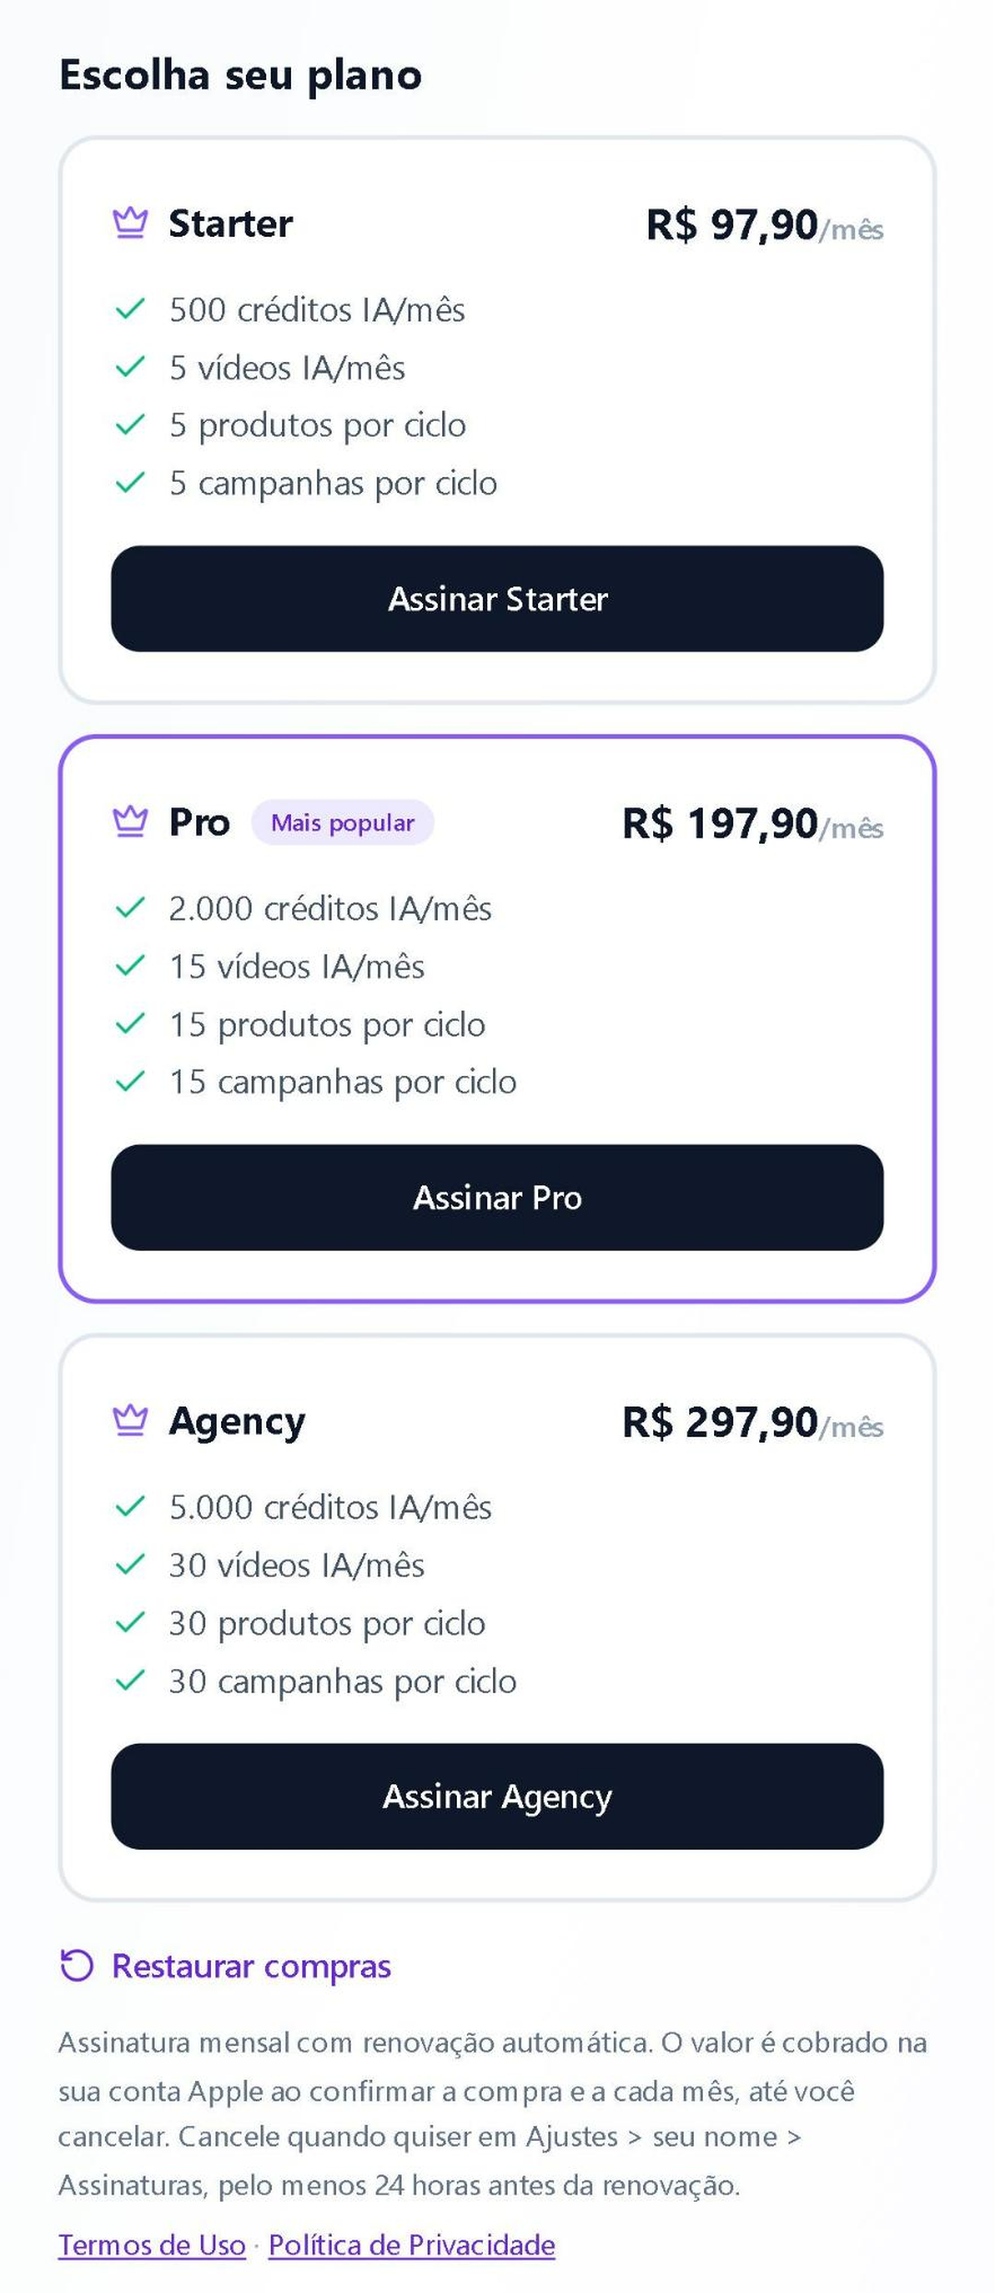
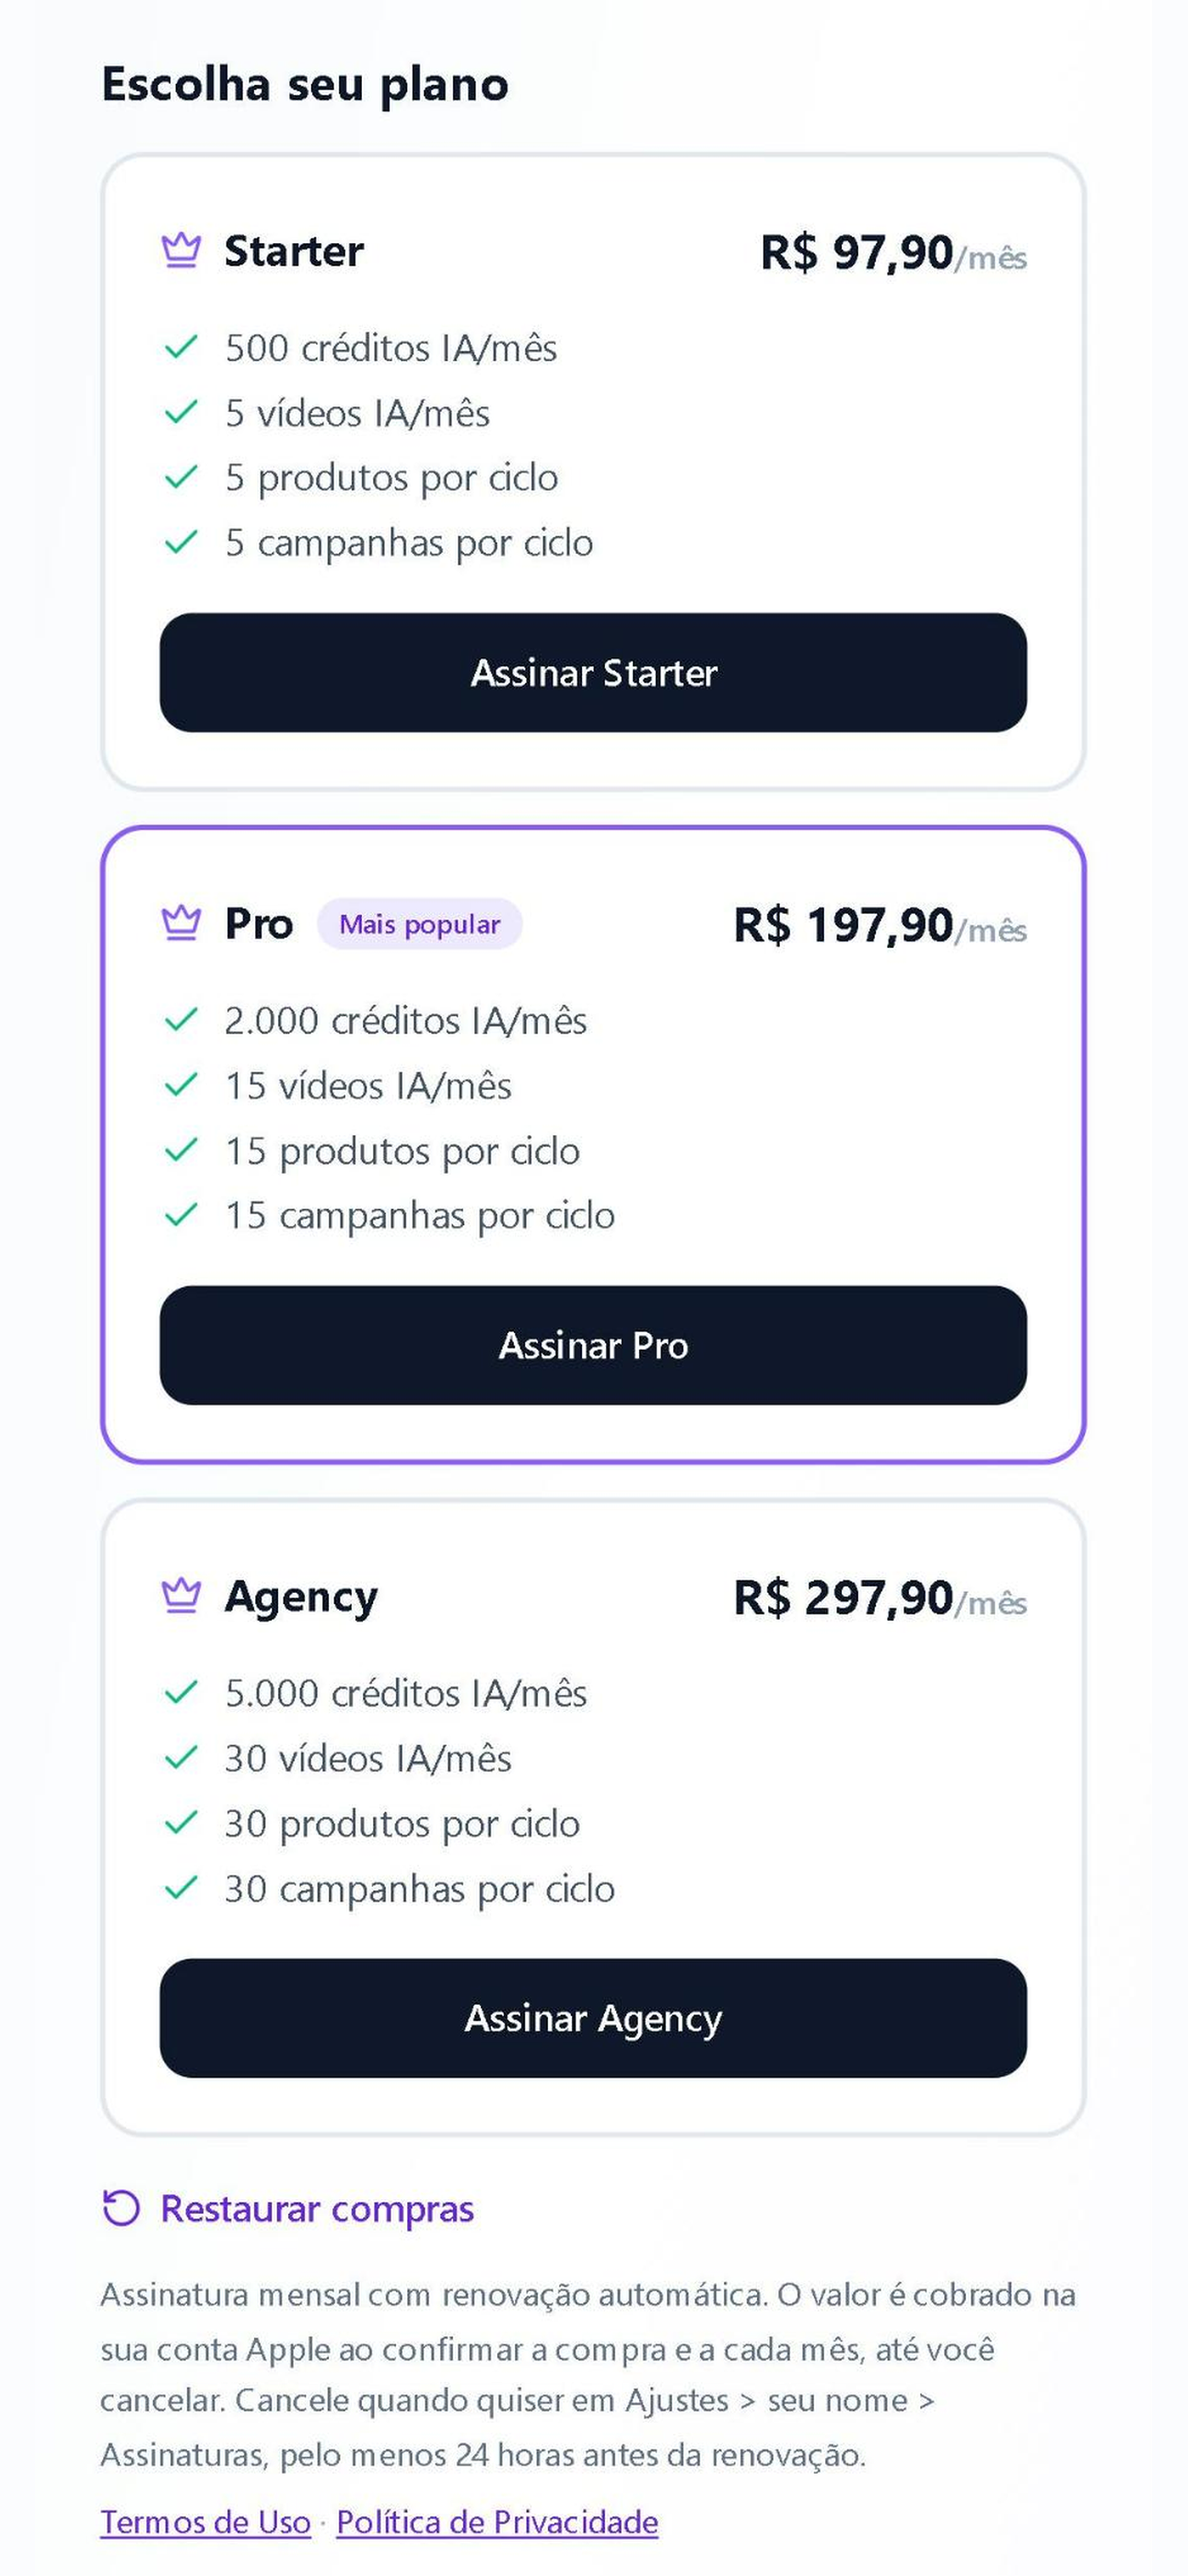
Captura de revisão em 1290x2796 e opção de substituir
Claude-Session: https://claude.ai/code/session_01VCZ78d1zyXvQuEiDRvYAFx

diff --git a/asc/iap.py b/asc/iap.py
@@ -132,6 +132,8 @@ def revisao():
     for s in todos(f"/subscriptionGroups/{gid}/subscriptions", limit=50):
         sid = s["id"]
         atual = get(f"/subscriptions/{sid}/appStoreReviewScreenshot").get("data")
+        if atual and os.environ.get("SUBSTITUIR") == "1":
+            send("DELETE", f"/subscriptionAppStoreReviewScreenshots/{atual['id']}", None); atual = None
         if atual: print("CAPTURA_JA_EXISTE", s["attributes"]["productId"]); continue
         r = send("POST", "/subscriptionAppStoreReviewScreenshots", {"data": {"type": "subscriptionAppStoreReviewScreenshots",
             "attributes": {"fileName": "assinatura-revisao.png", "fileSize": len(dados)},

diff --git a/asc/asc.py b/asc/asc.py
@@ -36,7 +36,7 @@ def get(p, **q):
     if r.status_code >= 300: print("ERRO GET", p, r.status_code, r.text[:600]); return {}
     return r.json()
 def send(m, p, body):
-    r = S.request(m, API + p, headers=h(), data=json.dumps(body))
+    r = S.request(m, API + p, headers=h(), data=json.dumps(body) if body is not None else None)
     ok = r.status_code < 300
     print(("OK " if ok else "ERRO ") + m, p, r.status_code, "" if ok else r.text[:900])
     return r.json() if ok and r.text else {}
